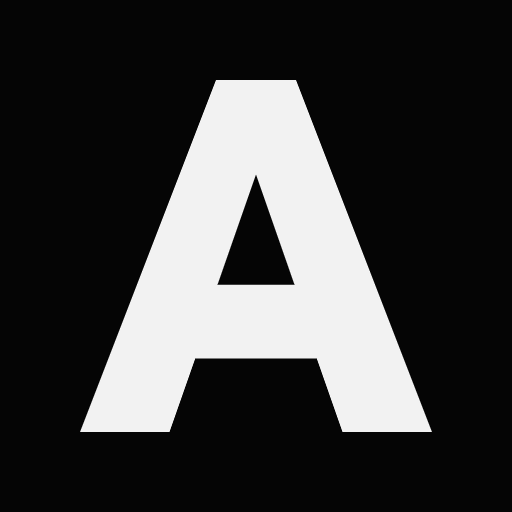
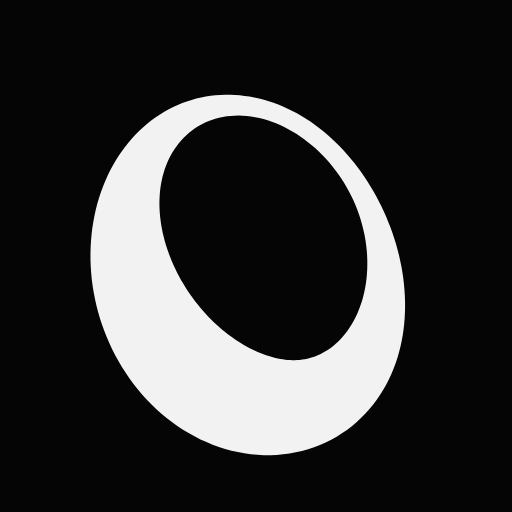
New mark: the hero's twisted loop replaces the "A"
A flat version of the glass Möbius loop (a tilted ring, thick at the lower left, pinched where it
twists) is now the site's logo: browser tab icon, app icons, next to the name in the header
(turns a little on hover) and as the liquid-chrome logo in the footer (its height map
precomputed again for the new shape). Path in src/lib/logo.ts, standalone public/logo.svg.

Changed region(s): [[0.1562, 0.1562, 0.8438, 0.9062]]

diff --git a/src/lib/logo.ts b/src/lib/logo.ts
@@ -1,0 +1,5 @@
+// The site's mark: the hero's twisted loop as a flat shape (100×100 box, fill-rule evenodd).
+// Generated from the same ring maths as the logo study: a tilted ellipse, thick at the lower left,
+// pinched at the upper right where the band twists.
+export const LOOP_PATH =
+  'M79.98 36.61L80.61 37.87L81.21 39.15L81.78 40.44L82.32 41.74L82.84 43.06L83.32 44.39L83.76 45.74L84.18 47.09L84.56 48.45L84.91 49.83L85.22 51.21L85.50 52.59L85.74 53.99L85.95 55.39L86.11 56.79L86.24 58.20L86.33 59.61L86.39 61.02L86.40 62.43L86.36 63.84L86.29 65.24L86.17 66.65L86.01 68.05L85.80 69.44L85.55 70.83L85.25 72.21L84.90 73.58L84.50 74.94L84.05 76.28L83.55 77.61L83.00 78.92L82.40 80.22L81.74 81.49L81.03 82.74L80.26 83.96L79.44 85.15L78.57 86.32L77.64 87.44L76.66 88.53L75.62 89.58L74.53 90.58L73.40 91.54L72.21 92.45L70.97 93.30L69.69 94.10L68.37 94.84L67.01 95.52L65.61 96.14L64.18 96.69L62.71 97.18L61.22 97.59L59.70 97.94L58.17 98.22L56.62 98.43L55.05 98.56L53.48 98.62L51.89 98.62L50.31 98.54L48.73 98.39L47.15 98.17L45.57 97.88L44.01 97.52L42.46 97.10L40.93 96.61L39.41 96.06L37.91 95.44L36.44 94.77L34.99 94.03L33.56 93.24L32.17 92.40L30.80 91.49L29.47 90.54L28.17 89.54L26.91 88.49L25.68 87.39L24.50 86.25L23.35 85.07L22.24 83.85L21.17 82.58L20.15 81.29L19.16 79.96L18.23 78.59L17.34 77.20L16.49 75.78L15.69 74.33L14.94 72.86L14.24 71.37L13.58 69.86L12.97 68.33L12.42 66.78L11.91 65.23L11.45 63.66L11.04 62.08L10.69 60.49L10.38 58.90L10.12 57.31L9.91 55.72L9.76 54.12L9.65 52.53L9.59 50.95L9.59 49.37L9.63 47.81L9.72 46.25L9.86 44.71L10.04 43.18L10.28 41.67L10.56 40.18L10.88 38.71L11.25 37.26L11.67 35.84L12.13 34.44L12.63 33.07L13.17 31.73L13.76 30.42L14.38 29.15L15.05 27.90L15.75 26.70L16.48 25.53L17.25 24.40L18.06 23.31L18.89 22.26L19.76 21.25L20.66 20.28L21.58 19.36L22.53 18.48L23.50 17.65L24.50 16.86L25.52 16.12L26.56 15.43L27.62 14.78L28.70 14.18L29.79 13.63L30.89 13.12L32.01 12.66L33.14 12.25L34.28 11.89L35.43 11.57L36.59 11.30L37.76 11.08L38.93 10.90L40.10 10.77L41.28 10.68L42.47 10.64L43.65 10.64L44.84 10.69L46.03 10.78L47.21 10.91L48.40 11.09L49.58 11.31L50.76 11.57L51.94 11.87L53.11 12.22L54.28 12.61L55.44 13.04L56.59 13.51L57.74 14.02L58.87 14.57L60.00 15.16L61.11 15.80L62.20 16.47L63.28 17.18L64.35 17.93L65.40 18.72L66.43 19.54L67.44 20.40L68.44 21.29L69.41 22.21L70.36 23.16L71.29 24.14L72.20 25.15L73.09 26.19L73.96 27.26L74.80 28.35L75.62 29.46L76.41 30.60L77.18 31.76L77.92 32.95L78.63 34.15L79.32 35.37ZM74.81 38.92L75.23 40.10L75.60 41.29L75.94 42.48L76.24 43.69L76.50 44.89L76.72 46.10L76.89 47.31L77.03 48.52L77.12 49.72L77.17 50.92L77.18 52.10L77.15 53.28L77.08 54.44L76.97 55.59L76.83 56.72L76.64 57.83L76.41 58.92L76.15 59.98L75.86 61.02L75.52 62.03L75.16 63.01L74.77 63.96L74.34 64.88L73.89 65.76L73.41 66.60L72.90 67.41L72.38 68.18L71.83 68.91L71.26 69.60L70.68 70.25L70.08 70.86L69.47 71.43L68.86 71.95L68.23 72.44L67.60 72.88L66.96 73.28L66.32 73.65L65.68 73.97L65.05 74.26L64.41 74.51L63.78 74.73L63.15 74.92L62.53 75.07L61.91 75.20L61.30 75.29L60.69 75.37L60.08 75.41L59.48 75.43L58.89 75.43L58.29 75.41L57.70 75.37L57.11 75.31L56.52 75.23L55.93 75.13L55.33 75.02L54.74 74.88L54.13 74.73L53.53 74.56L52.92 74.37L52.30 74.16L51.68 73.94L51.05 73.69L50.41 73.42L49.77 73.14L49.12 72.83L48.46 72.50L47.80 72.15L47.13 71.77L46.46 71.37L45.78 70.95L45.10 70.51L44.42 70.04L43.74 69.55L43.05 69.03L42.37 68.49L41.68 67.93L41.00 67.34L40.32 66.73L39.64 66.09L38.97 65.44L38.31 64.76L37.65 64.05L37.00 63.33L36.36 62.58L35.74 61.81L35.12 61.02L34.52 60.22L33.93 59.39L33.35 58.54L32.80 57.68L32.26 56.80L31.73 55.91L31.23 55.00L30.75 54.08L30.29 53.14L29.85 52.19L29.43 51.24L29.04 50.27L28.67 49.29L28.33 48.31L28.01 47.32L27.72 46.32L27.46 45.32L27.22 44.32L27.02 43.31L26.84 42.30L26.70 41.30L26.58 40.30L26.50 39.29L26.44 38.30L26.42 37.31L26.43 36.32L26.48 35.35L26.55 34.38L26.66 33.42L26.80 32.47L26.98 31.54L27.19 30.62L27.44 29.72L27.71 28.83L28.02 27.96L28.37 27.11L28.75 26.27L29.16 25.46L29.61 24.68L30.09 23.91L30.61 23.18L31.15 22.47L31.73 21.78L32.35 21.13L32.99 20.51L33.66 19.92L34.37 19.36L35.10 18.84L35.87 18.35L36.66 17.90L37.47 17.49L38.31 17.12L39.18 16.80L40.07 16.51L40.97 16.27L41.90 16.06L42.84 15.91L43.80 15.80L44.78 15.73L45.76 15.71L46.76 15.74L47.76 15.81L48.78 15.93L49.79 16.10L50.81 16.31L51.83 16.57L52.85 16.87L53.87 17.22L54.88 17.61L55.89 18.04L56.89 18.51L57.89 19.03L58.87 19.59L59.84 20.18L60.81 20.82L61.76 21.49L62.69 22.20L63.61 22.94L64.51 23.72L65.39 24.53L66.25 25.38L67.08 26.26L67.89 27.18L68.68 28.12L69.43 29.10L70.16 30.10L70.86 31.13L71.53 32.18L72.16 33.25L72.76 34.35L73.33 35.47L73.86 36.60L74.35 37.76Z'

diff --git a/src/components/LiquidLogo.tsx b/src/components/LiquidLogo.tsx
@@ -1,11 +1,11 @@
 import { ShaderMount } from '@paper-design/shaders-react'
 import { getShaderColorFromString, LiquidMetalShapes, liquidMetalFragmentShader, ShaderFitOptions } from '@paper-design/shaders'
 
-// The site's "A" (same Archivo glyph as the 3D prism) as a small liquid-chrome mark for the footer.
+// The site's mark (the hero loop, src/lib/logo.ts) as a small liquid-chrome logo for the footer.
 // Paper Shaders' LiquidMetal normally turns its mask into a height map on the main thread (a Poisson
-// solve, ~0.5–1s). That map never changes, so it's precomputed once (public/alter/liquid-a.png, from
-// toProcessedLiquidMetal on a 256px render of the glyph) and fed straight to the shader.
-const MAP = '/alter/liquid-a.png'
+// solve, ~0.5–1s). That map never changes, so it's precomputed once (public/alter/liquid-loop.png, from
+// toProcessedLiquidMetal on a 256px render of the mark) and fed straight to the shader.
+const MAP = '/alter/liquid-loop.png'
 
 export default function LiquidLogo() {
   const still = window.matchMedia('(prefers-reduced-motion: reduce)').matches
@@ -14,7 +14,7 @@ export default function LiquidLogo() {
       fragmentShader={liquidMetalFragmentShader}
       mipmaps={['u_image']}
       speed={still ? 0 : 0.8}
-      style={{ width: 72, height: 56 }}
+      style={{ width: 56, height: 56 }}
       uniforms={{
         u_colorBack: getShaderColorFromString('#00000000'),
         u_colorTint: getShaderColorFromString('#ffffff'),

diff --git a/src/components/Header.tsx b/src/components/Header.tsx
@@ -3,6 +3,7 @@ import gsap from 'gsap'
 import { site } from '../content'
 import { lockScroll } from '../lib/smooth-scroll'
 import { TLink } from './PageTransition'
+import { LOOP_PATH } from '../lib/logo'
 import { SoundToggle } from './Sound'
 
 const nav = [
@@ -62,7 +63,11 @@ export default function Header() {
   return (
     <>
       <header className="fixed inset-x-0 top-0 z-[70] flex items-center justify-between px-4 pt-[calc(1rem+env(safe-area-inset-top,0px))] pb-4 mix-blend-difference select-none sm:px-8">
-        <TLink to="/" className="display inline-flex min-h-11 items-center text-lg" aria-label={`${site.name}, home`}>
+        <TLink to="/" className="group display inline-flex min-h-11 items-center gap-2.5 text-lg" aria-label={`${site.name}, home`}>
+          {/* the mark (the hero loop) turns a little on hover */}
+          <svg viewBox="0 0 100 100" aria-hidden className="size-6 transition-transform duration-500 ease-[cubic-bezier(0.23,1,0.32,1)] group-hover:rotate-[24deg]">
+            <path d={LOOP_PATH} fillRule="evenodd" fill="currentColor" />
+          </svg>
           {site.name}
         </TLink>
         <nav className="hidden gap-8 sm:flex" aria-label="Main">

diff --git a/src/components/Contact.tsx b/src/components/Contact.tsx
@@ -81,7 +81,7 @@ function FooterLogo() {
       window.clearTimeout(timer)
     }
   }, [])
-  const box = <span ref={ref} className="block h-14 w-[72px]" />
+  const box = <span ref={ref} className="block size-14" />
   return near ? <Suspense fallback={box}><LiquidLogo /></Suspense> : box
 }
 
